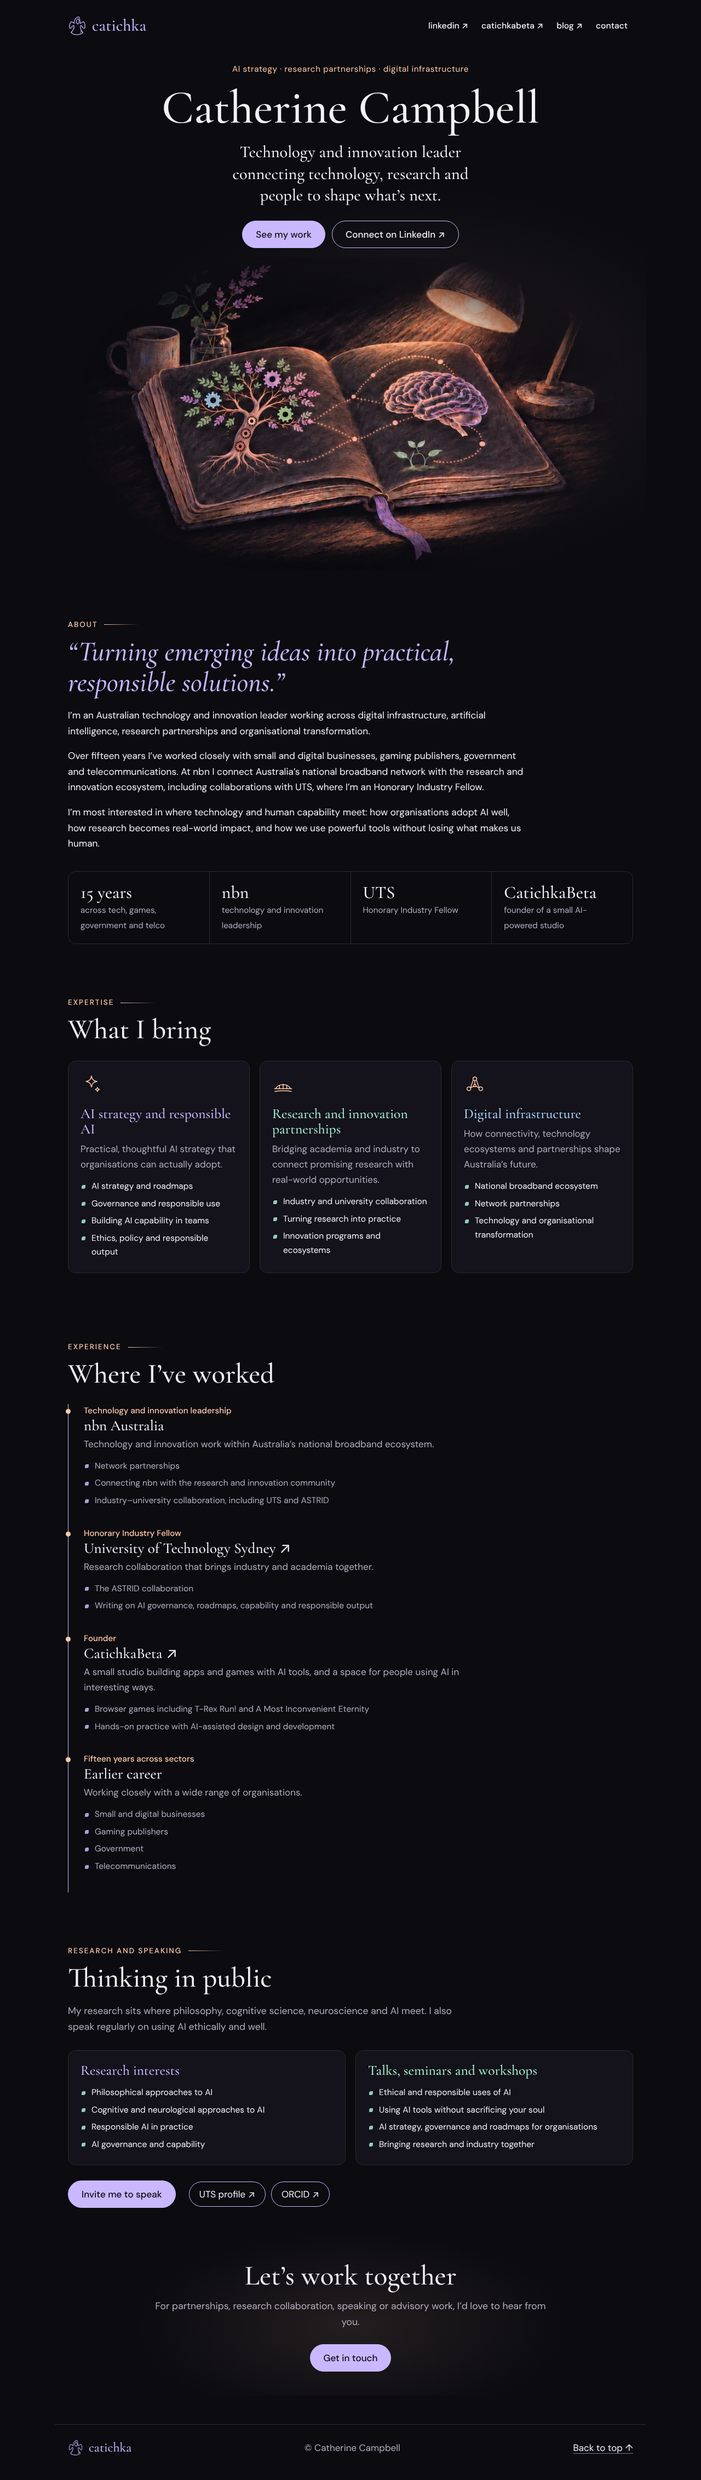
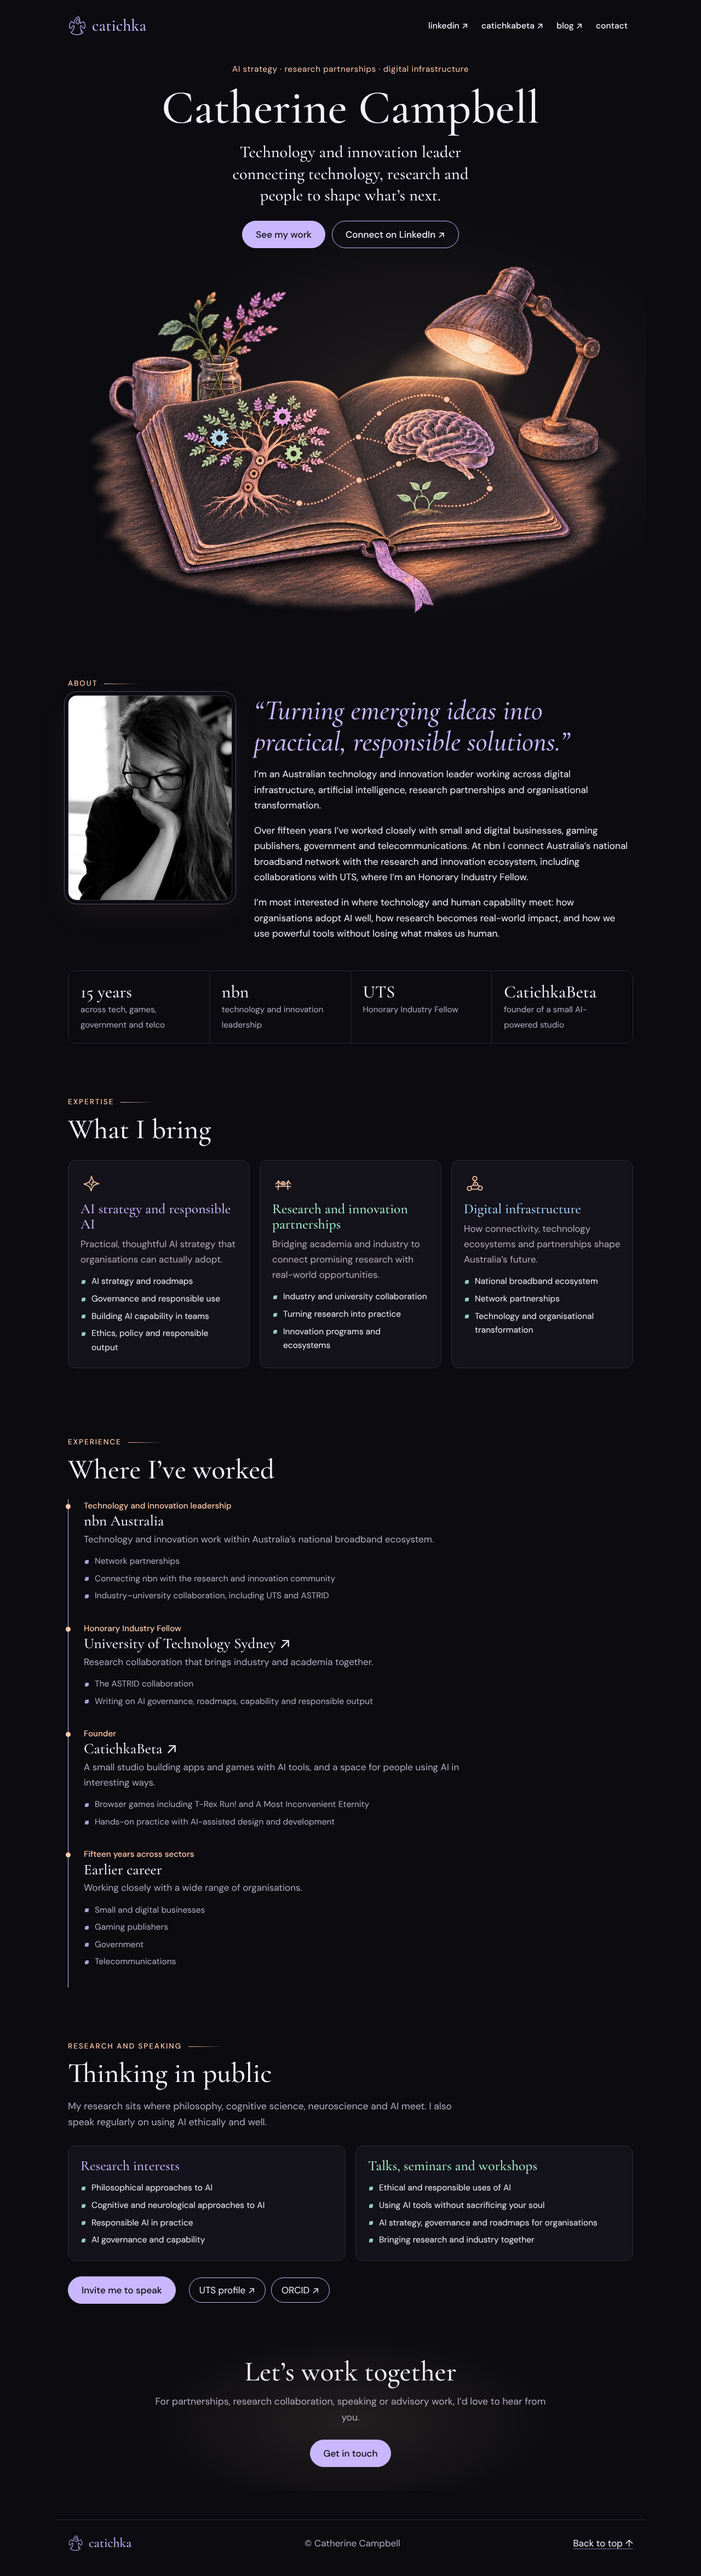
Swap in ChatGPT's batch 2 art
Text-free hero with a phone version, clean druid mark, favicon from the
bold small mark, and the three approved Expertise icons.

Claude-Session: https://claude.ai/code/session_01EstHzd3ZrVaBXQQCWkzqig

diff --git a/src/site.ts b/src/site.ts
@@ -48,19 +48,19 @@ export const about = {
 
 export const expertise = [
   {
-    icon: 'spark',
+    icon: 'ai',
     title: 'AI strategy and responsible AI',
     body: 'Practical, thoughtful AI strategy that organisations can actually adopt.',
     points: ['AI strategy and roadmaps', 'Governance and responsible use', 'Building AI capability in teams', 'Ethics, policy and responsible output'],
   },
   {
-    icon: 'bridge',
+    icon: 'research',
     title: 'Research and innovation partnerships',
     body: 'Bridging academia and industry to connect promising research with real-world opportunities.',
     points: ['Industry and university collaboration', 'Turning research into practice', 'Innovation programs and ecosystems'],
   },
   {
-    icon: 'network',
+    icon: 'infrastructure',
     title: 'Digital infrastructure',
     body: 'How connectivity, technology ecosystems and partnerships shape Australia’s future.',
     points: ['National broadband ecosystem', 'Network partnerships', 'Technology and organisational transformation'],
@@ -121,10 +121,11 @@ export const closing = {
 };
 
 export const art = {
-  mark: '/art/mark.png', // approved druid mark (batch 1), edges cleaned for web
+  mark: '/art/mark.png', // approved druid mark (clean batch 2 export)
   portrait: '/art/portrait.webp' as string | null, // Catherine's photo (source: docs/art/source/portrait.png); frame treatment from ChatGPT later
   portraitAlt: 'Catherine Campbell in glasses, chin in hand, reading a laptop screen.',
-  // Placeholder: cropped from the approved hero reference until ChatGPT's text-free hero (batch 2) arrives.
-  hero: '/art/hero-placeholder.webp',
+  // Approved text-free hero from batch 2. The phone version is hero-mobile.png cropped to the illustration.
+  hero: '/art/hero.webp',
+  heroMobile: '/art/hero-mobile.webp',
   heroAlt: 'An open notebook under a warm desk lamp. One page shows a tree with pastel cogs among its leaves, the other a brain, joined by dotted lines of thought.',
 };

diff --git a/src/styles/global.css b/src/styles/global.css
@@ -51,7 +51,7 @@ h1, h2, h3 { font-family: var(--display); font-weight: 500; line-height: 1.1; ma
 .btn:hover { color: var(--bg); background: var(--peach); border-color: var(--peach); }
 .btn.ghost { background: transparent; color: var(--text); }
 .btn.ghost:hover { color: var(--peach); background: transparent; }
-.hero-art { margin: 16px auto 0; width: min(100%, 980px); -webkit-mask-image: radial-gradient(ellipse 52% 54% at 50% 50%, #000 62%, transparent 100%); mask-image: radial-gradient(ellipse 52% 54% at 50% 50%, #000 62%, transparent 100%); }
+.hero-art { margin: 8px auto 0; width: min(100%, 1040px); }
 
 /* Sections */
 .section { padding-top: 88px; padding-bottom: 8px; scroll-margin-top: 16px; }
@@ -87,7 +87,7 @@ h1, h2, h3 { font-family: var(--display); font-weight: 500; line-height: 1.1; ma
 .ticks { list-style: none; padding: 0; margin: 14px 0 0; }
 .ticks li { position: relative; padding-left: 20px; margin: 6px 0; color: var(--text); font-size: 0.97rem; }
 .ticks li::before { content: ''; position: absolute; left: 2px; top: 0.62em; width: 7px; height: 7px; border-radius: 50% 0; background: var(--mint); opacity: 0.85; }
-.icon { width: 40px; height: 40px; color: var(--peach); margin-bottom: 12px; }
+.icon { width: 40px; height: 40px; margin-bottom: 12px; }
 .cards.two { grid-template-columns: repeat(auto-fit, minmax(300px, 1fr)); }
 .row { display: flex; flex-wrap: wrap; align-items: center; gap: 16px 24px; margin-top: 8px; }
 .row .pills { margin: 0; }
@@ -129,3 +129,5 @@ h1, h2, h3 { font-family: var(--display); font-weight: 500; line-height: 1.1; ma
   .facts li { padding: 16px; }
   .facts strong { font-size: 1.5rem; }
 }
+
+@media (max-width: 640px) { .hero-art { margin-top: 0; } }

diff --git a/docs/art/batch-02/START-HERE.md b/docs/art/batch-02/START-HERE.md
@@ -1,0 +1,18 @@
+# Catichka.com batch 02 art handoff
+
+- `hero.png` fills the desktop hero slot. Approved by Catherine. Transparent 1536 × 1024 PNG, with the lamplit book, three pastel canopy cogs and three copper trunk cogs. Image generation used the approved style frame to recreate the illustration without text or UI.
+- `hero-mobile.png` fills the mobile hero slot. Approved by Catherine. Transparent 1024 × 1536 PNG, with space above the vignette for live page text. Use the phone composition on narrow screens and check the text spacing at mobile widths.
+- `mark.png` and `wordmark.png` supersede the batch 01 PNG exports. The approved shapes and colours were retained while removing stray transparency pixels and cleaning the edges. The site header uses the live wordmark.
+- `mark-small.png` is the favicon source and the druid variant for 16–32 px placements. Transparent 1024 × 1024 PNG with a thicker lavender outline, simplified curves and no peach fold accent at small sizes. Approved by Catherine. Use it to generate the favicon derivatives.
+
+Keep hero positioning, buttons, and navigation as live webpage elements. Follow the professional profile structure in the updated art brief.
+
+## Approved Expertise icons
+
+Catherine approved this set on 10 November 2026. All three are transparent 1024 × 1024 PNGs with matching peach (#ffc9a8) strokes and a small muted gold detail in the AI icon. Display each on a 40 × 40 px canvas. The preview shows enlarged artwork above the 40 px renderings.
+
+- `icon-ai.png` fills the AI strategy and responsible AI card. Four-point spark with an original Carcosa-inspired gold glyph.
+- `icon-research.png` fills the research and innovation partnerships card. Suspension bridge with curved cables and a small eye.
+- `icon-infrastructure.png` fills the digital infrastructure card. Connected network nodes with curved links and an eye at the hub.
+
+Next are the portrait treatment and link preview card.
